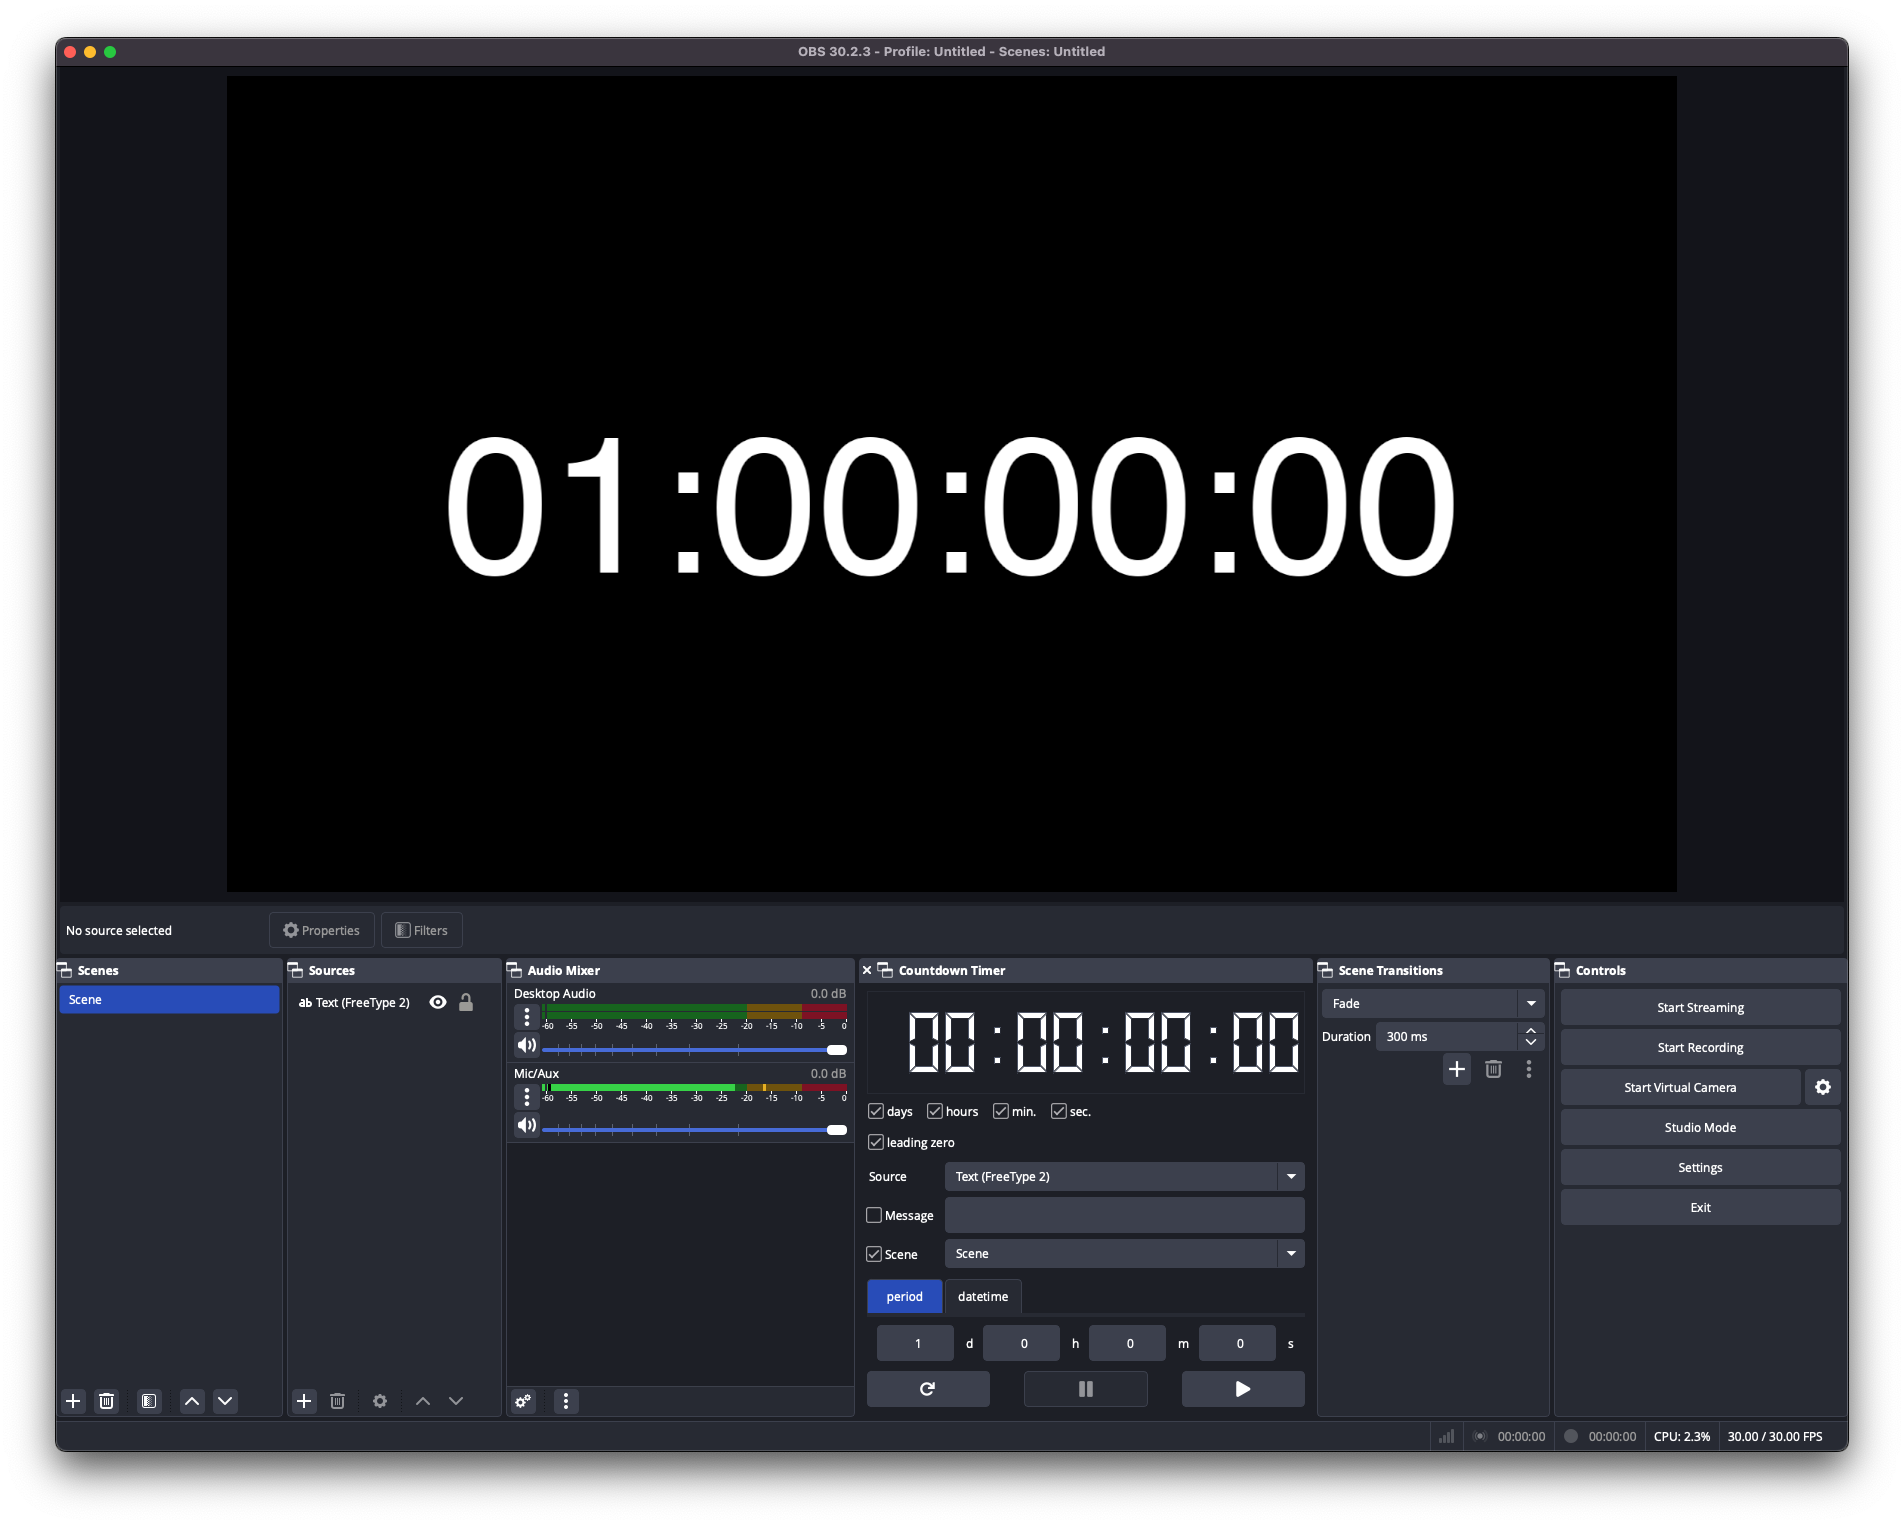
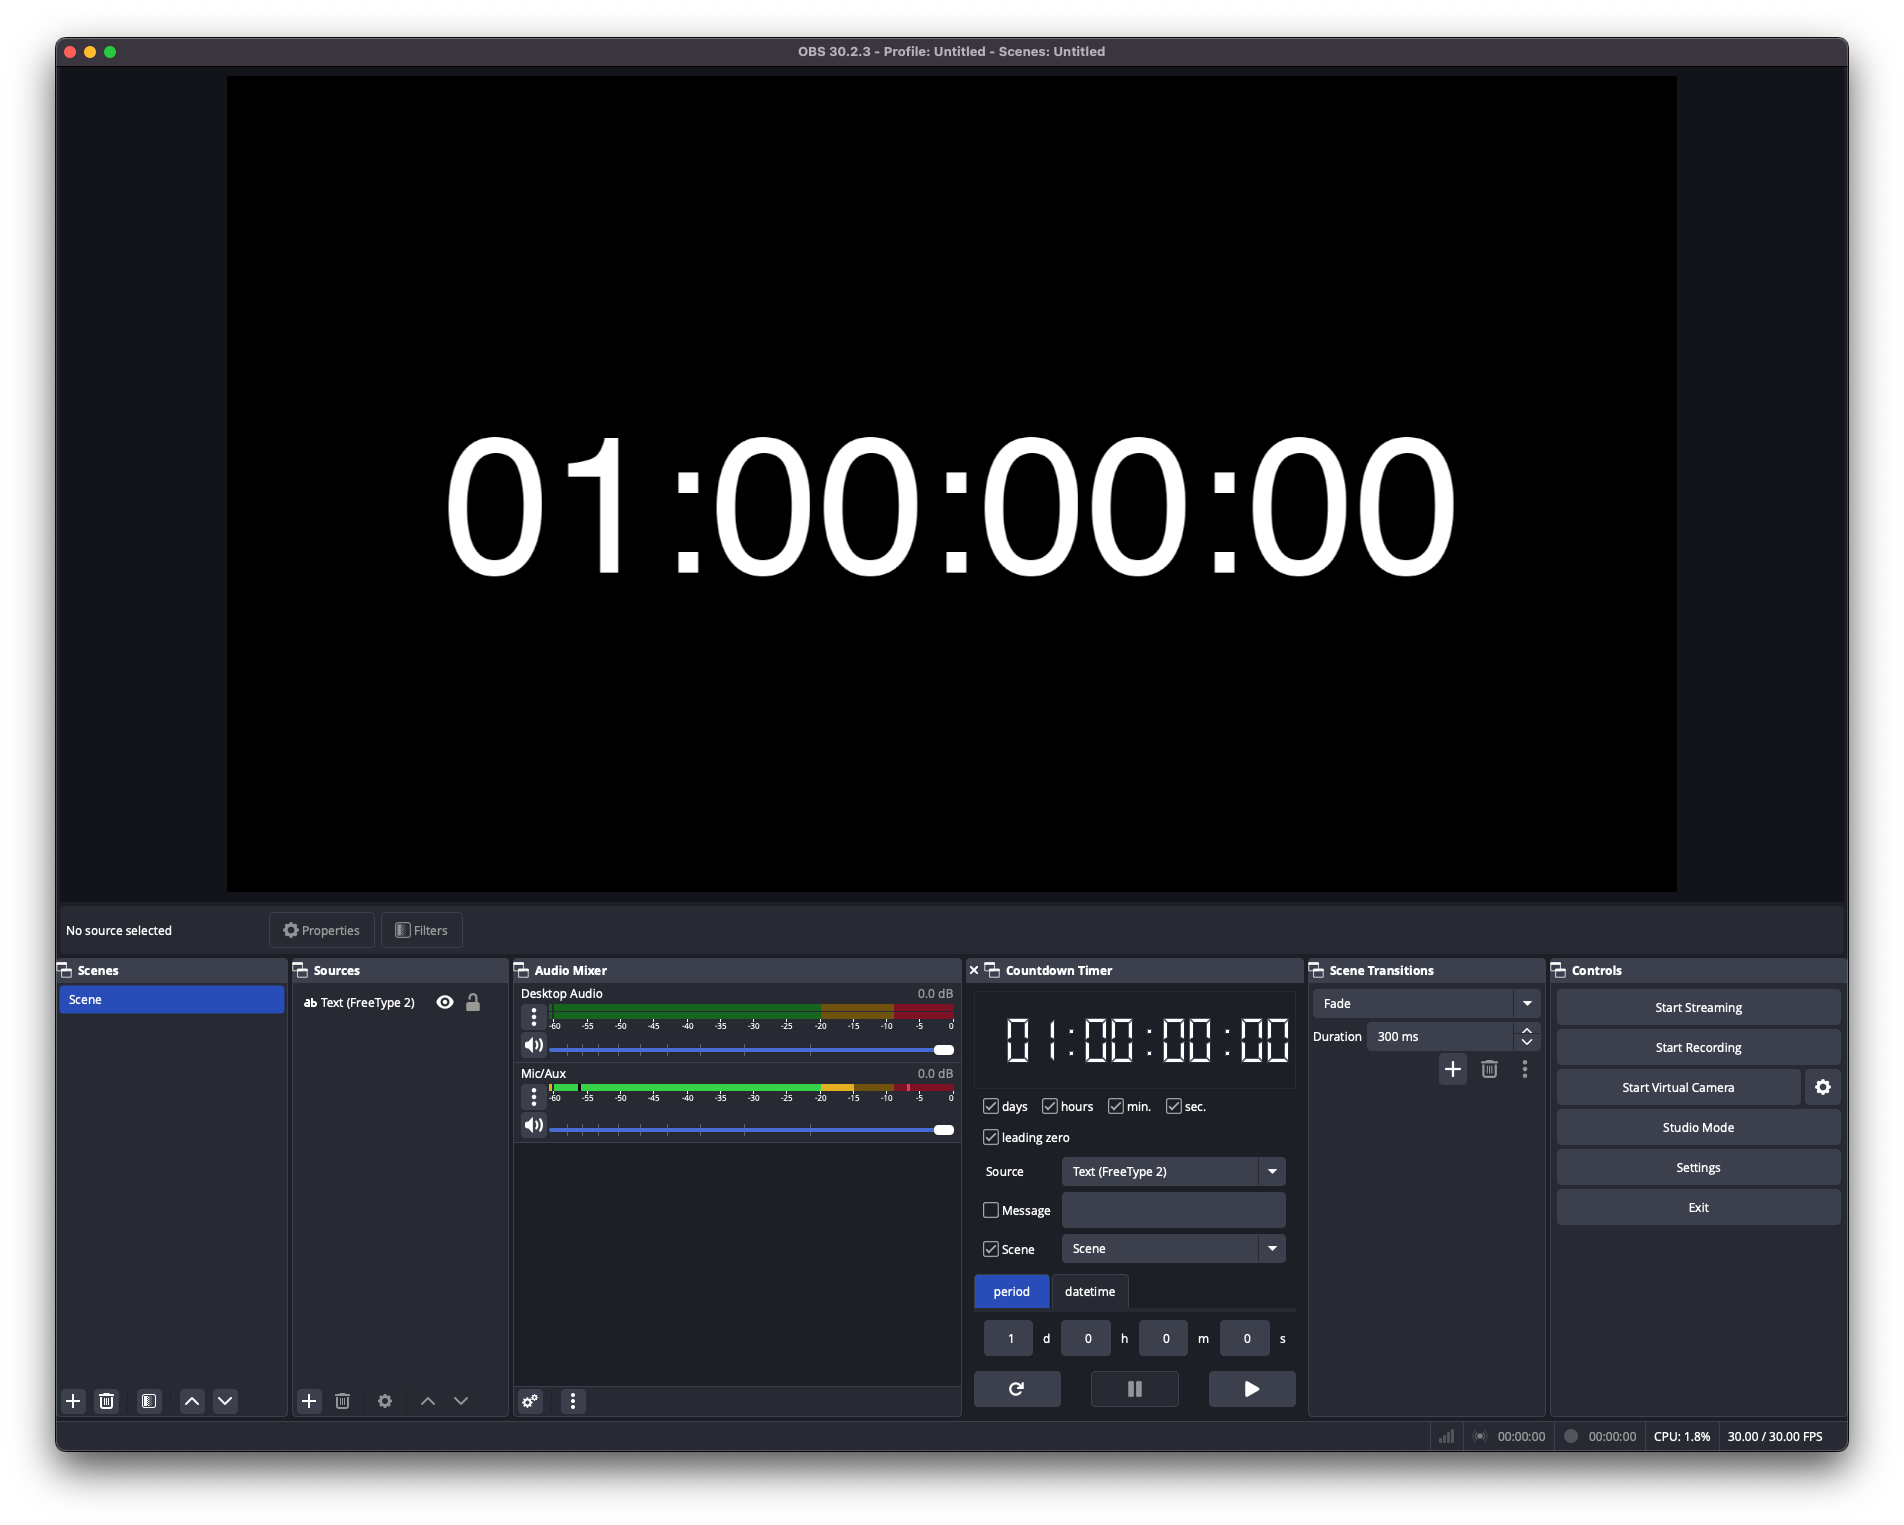
More UI tweaks

diff --git a/src/countdown-widget.cpp b/src/countdown-widget.cpp
@@ -24,8 +24,8 @@ CountdownDockWidget::CountdownDockWidget(QWidget *parent)
 				       QSizePolicy::Fixed);
 	ui->hsSecondsLeft->changeSize(0, 20, QSizePolicy::Fixed,
 				      QSizePolicy::Fixed);
-	ui->hsSecondsRight->changeSize(0, 20, QSizePolicy::Fixed,
-				       QSizePolicy::Fixed);
+	ui->hsSecondsRight->changeSize(0, 20, QSizePolicy::MinimumExpanding,
+				       QSizePolicy::MinimumExpanding);
 #endif
 
 	SetupCountdownWidgetUI(countdownTimerData);
